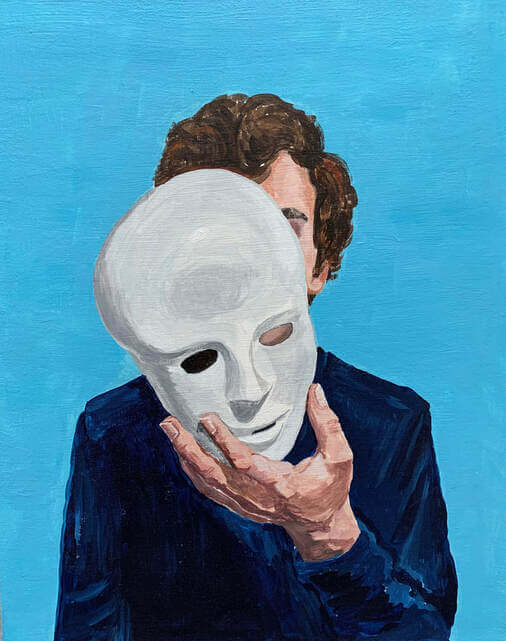
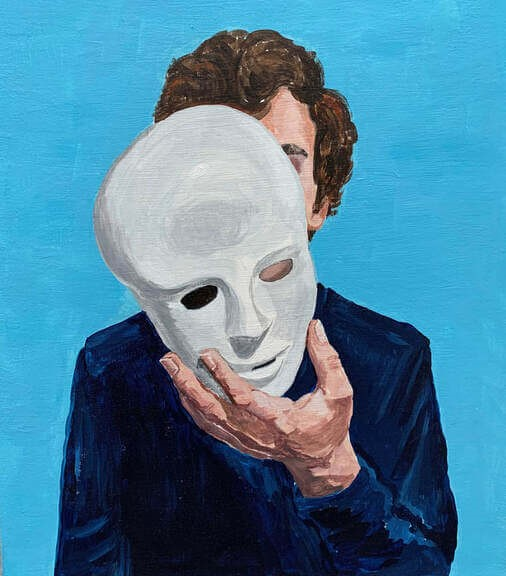
Gallery Page Rework
Extensive reformatting to the gallery page, and to many of the final images.

diff --git a/art.html b/art.html
@@ -47,46 +47,35 @@
           }
           </script>
 <!--Main gallery content for the page.-->
-          <div class="works">
-        <div class="workcontainer">
-          <div class="physwork">
-            <img src="imagesscaled/bluemix.png" alt="Digital multimedia piece of masked figure glitching with 3D heads circling.">
+      <div class="works">
+          <div class= "artgrid">
+            <section class="gallery">
+              <img src="imagesscaled/chand.jpg" alt="">
+              <img src="imagesscaled/bluemix.png" alt="">
+              <img src="imagesscaled/poly.jpg" alt="">
+              <img src="imagesscaled/DQ.jpg" alt="">
+              <img src="imagesscaled/redgreen.jpg" alt="">
+              <img src="imagesscaled/walk.jpg" alt="">
+              <img src="imagesscaled/sit.jpg" alt="">
+              <img src="imagesscaled/look.jpg" alt="">
+              <img src="imagesscaled/vet.jpg" alt="">
+              <img src="imagesscaled/pepper.jpg" alt="">
+              <img src="imagesscaled/blue.jpg" alt="">
+              <img src="imagesscaled/green.jpg" alt="">
+            </section>
+            <aside>
+              <h3>My Artwork</h3>
+              <br>
+              <p>Displayed in this gallery are some of my favorite art pieces that I’ve completed from the past two-ish years. </p>
+              <br>
+              <br>
+              <p>They were all completed in a variety of different mediums, specifically; <b> charcoal, acrylic, watercolor, graphite, digital, & watercolor pencil. </b></p>
+              <br>
+              <br>
+              <p>I love experimenting with new mediums, and seeing what new visual methods I can employ to create compelling artwork that stands out and communicates my ideas and feelings.</p>
+            </aside>
           </div>
-            <div class="physwork">
-              <img src="imagesscaled/chand.jpg" alt="Acrylic painting of gold chandelier next to deer skull and earth globe.">
-            </div>
-            <div class="physwork">
-              <img src="imagesscaled/walk.jpg" alt="Graphite pencil drawing of man in coat walking on abstract path.">
-            </div>
-            <div class="physwork">
-              <img src="imagesscaled/pepper.jpg" alt="Pastel piece of man in suit posing in-front of peppers.">
-            </div>
-            <div class="physwork">
-              <img src="imagesscaled/vet.jpg" alt="Charcoal piece of profile of US veteran.">
-            </div>
-            <div class="physwork">
-              <img src="imagesscaled/green.jpg" alt="Acrylic painting of a shoulder of green coat with red accent.">
-            </div>
-            <div class="physwork">
-              <img src="imagesscaled/poly.jpg" alt="Black and white watercolor painting of polygonal abstract scene.">
-            </div>
-            <div class="physwork">
-              <img src="imagesscaled/look.jpg" alt="Colored pencil piece of masked figure posing in black leather coat.">
-            </div>
-            <div class="physwork">
-              <img src="imagesscaled/sit.jpg" alt="Multimedia piece of Steven sitting in on stool.">
-            </div>
-            <div class="physwork">
-              <img src="imagesscaled/blue.jpg" alt="Acrylic painting of figure in blue holding up white mask in-front of them.">
-            </div>
-          <div class="physwork">
-            <img src="imagesscaled/DQ.jpg" alt="Digital painting of Steven grimacing inside of ice cream cup."> 
-          </div>
-          <div class="physwork">
-            <img src="imagesscaled/redgreen.png" alt="Digital piece of Steven screaming in elevator.">
         </div>
-        </div>
-              </div>
               <!--Links to email and linkedin.-->
               <footer>
                 <div class="bottom">
@@ -97,6 +86,6 @@
                   <img class="stevenlink" alt="IN Logo from Linkedin, a linked image directing to Steven's linkedin profile." src="imagesscaled/linkedin.png" width="20" height="20">
                   </a>
                 </div>
-        </footer>
+              </footer>
     </body>
 </html>

diff --git a/styles.css b/styles.css
@@ -99,13 +99,27 @@ font-size: 100%;
   background-color: black;
 }
 
+h2.hi {
+  color: #000;
+  padding-bottom: 0.5rem;
+}
+
+p.hey {
+  color: #000;
+  padding-left: 0em;
+}
+
 .centered {
-  position: absolute;
-  top: 30%;
+  position: fixed;
+  top: 40%;
   left: 50%;
   transform: translate(-50%, -50%);
-  background-color: black;
-  padding: 0.5rem;
+  background-color: white;
+  border-style: solid;
+  border-width: 10px;
+  border-color: rgba(105, 24, 105, 0.534);
+  padding: 1rem;
+  max-width: 300px;
 }
 
 /* Sections follow content layout for projects. */
@@ -115,17 +129,19 @@ font-size: 100%;
 
 /* The flexbox for my artwork. */
 .workcontainer {
-  justify-content: center;
-  flex-direction: row;
-	display: flex;
-	flex-wrap: wrap;
-	justify-content: center;
-  align-items: flex-start;
-  max-width: 1200px;
+	display: grid;
+
 
 }
 
-@media screen and (max-width: 800px) {
+/* The flexbox for my about page. */
+.aboutflex {
+  display: flex;
+  flex-flow: row wrap;
+  justify-content: center;
+}
+
+@media screen and (max-width: 999px) {
   h3 {
     font-family: Lato;
     font-size: 29px;
@@ -143,12 +159,20 @@ bottom: 0;
 }
 
 .centered {
-  position: absolute;
-  top: 30%;
+  position: fixed;
+  top: 40%;
   left: 50%;
   transform: translate(-50%, -50%);
-  background-color: black;
+  background-color: rgb(255, 255, 255);
   padding: 0.5rem;
+}
+
+p.top {
+  font-family: "Quattrocento Sans";
+  font-size: 1.15rem;
+  max-width: 536px;
+  padding-left: 2rem;
+  padding-right: 2rem;
 }
 
 }
@@ -186,43 +210,86 @@ bottom: 0;
   position: sticky;
 }
 
-@media screen and (min-width: 801px) {
+p.about {
+  font-family: "Quattrocento Sans";
+  font-size: 1.15rem;
+  max-width: 600px;
+  padding-left: 2rem;
+  padding-right: 2rem;
+}
+
+@media screen and (min-width: 1000px) {
   h3 {
     font-family: Lato;
     font-size: 39px;
     padding-top: 1.6rem;
     padding-left: 2rem;
-    padding-bottom: 1rem;
+    padding-bottom: 1.5rem;
   }
 
   .about_me {
     border-width: 0em;
     background-color: #dff3ff;
-margin: auto;
-max-width: 780px;
-bottom: 0;
+    margin: auto;
+    max-width: 800px;
+    bottom: 0;
 }
 
 p.about {
   font-family: "Quattrocento Sans";
-  font-size: 1.15rem;
-  max-width: 630px;
+  font-size: 1.25rem;
+  max-width: 680px;
   padding-left: 2rem;
   padding-right: 2rem;
 }
 
+.artgrid {
+  display: grid;
+  grid-template-rows: auto;
+  grid-template-areas: "main main . sidebar";
+  margin: 3rem auto;
+  justify-content: center;
 }
 
-.aboutflex {
+.opener {
+  max-width: 400px;
+}
+
+p.top {
+  font-family: "Quattrocento Sans";
+  font-size: 1.25rem;
+  max-width: 536px;
+  padding-left: 0rem;
+  padding-right: 2rem;
+  margin-left: -1rem;
+}
+
+.gallery {
   display: grid;
-  grid-template-areas:
-  'h3 h3'
-  'p picture'
-  'p.about p.about';
+  grid-template-columns: repeat(3, 1fr);
+  grid-gap: 1.3rem;
+  justify-items: center;
+  align-items: center;
+  max-width: 900px;
+}
+
+aside {
+  grid-area: sidebar;
+  max-width: 300px;
+  margin-left: 1em;
+}
+
+}
+
+@media screen and (min-width: 1324px) {
+  aside {
+    grid-area: sidebar;
+    max-width: 300px;
+    margin-left: 5em;
+  }
 }
 
 /* Placeable adherences for my about me page. */
-
 
 p {
   font-family: "Quattrocento Sans";
@@ -233,11 +300,9 @@ p {
 }
 /* Unique placement for my about me image. */
 .me { 
-  display: block;
   margin-left: auto;
   margin-right: auto;
   border-radius: 8px;
-  grid-area: picture;
 }
 
 /* Guides for my linked footer content. */

diff --git a/about.html b/about.html
@@ -27,17 +27,21 @@
         <!--Main 'about me' content for the page.-->
         <div class="about_me">
           <br>
+          <h3>Who am I?</h3>
               <div class="aboutflex">
-                <h3>Who am I?</h3>
-            
-                <p>My name is Steven McInerney. I am a digital designer currently based in Philadelphia, studying Interactive Digital Media at Drexel University.</p>
-                <br>
-                <br>
-                <br>
-                <picture>
-                  <img class= "me" src= "imagesscaled/myself.jpeg" alt="Picture of Steven smiling, standing in studio lab." width="300" height="300">
-                </picture>
+                <div class="opener">
+                  <p class="top">My name is Steven McInerney. I am a digital designer currently based in Philadelphia, studying Interactive Digital Media at Drexel University.</p>
                   <br>
+                  <br>
+                  <br>
+                </div>
+                <div class="pic">
+                  <picture>
+                    <img class= "me" src= "imagesscaled/myself.png" alt="Picture of Steven smiling, standing in studio lab.">
+                  </picture>
+                </div>
+              </div>
+                  <br> 
                   <h3>Some Background...</h3>
                   <p class="about">I am interested in honing my creative and artistic skill with a blend of my love of technology. I believe that it is incredibly necessary to utilize creative expression in our digital lives, especially as designers.
                   <br>
@@ -53,7 +57,6 @@
                   <br>
                   <br>
                   </p>
-             </div>
         </div>
             <!--Links to email and linkedin.-->
             <footer>

diff --git a/uiux.html b/uiux.html
@@ -28,12 +28,20 @@
           <div class="works"> 
             <div class="physwork">
               <a href="work2.html">
-              <img src="imagesscaled/realtitle.png" alt="IDM-213, Pandora, Rebrand and Re-flow." width=600 height=470>
+            <picture>
+              <source media="(max-width: 1149px)" srcset="imagesscaled/realtitle.png" />
+              <source media="(min-width: 1150px)" srcset="imagesscaled/real_b.png" />
+              <img src="imagesscaled/realtitle.png" alt="IDM-213, Pandora, Rebrand and Re-flow.">
+            </picture>
             </a>
             </div>
             <div class="physwork">
               <a href="work1.html">
-              <img src="imagesscaled/wcsjtitle.png" alt="IDM-212 WCSJNews.com Redesign and Re-flow." width=600 height=470>
+            <picture>
+                <source media="(max-width: 1149px)" srcset="imagesscaled/wcsjtitle.png" />
+              <source media="(min-width: 1150px)" srcset="imagesscaled/wcsjtitle_b.png" />
+              <img src="imagesscaled/wcsjtitle.png" alt="IDM-212 WCSJNews.com Redesign and Re-flow.">
+            </picture>
             </a>
               </div>
             </div>

diff --git a/index.html b/index.html
@@ -26,7 +26,11 @@
             <source media="(min-width: 1021px)" srcset="imagesscaled/bg_l.png" />
             <img src="imagesscaled/bg_s.png" alt="Gallery of Steven's work at an angle.">
           </picture>
-          <div class="centered">Welcome! I'm Steven, and this is my website, feel free to take a look around with the tabs up top.</div>
+          <div class="centered">
+            <h2 class="hi">Welcome!</h2>
+            <p class="hey">I'm Steven, and this is my website. Feel free to take a look around with the tabs up top. </p>
+
+          </div>
         </div>
             <!--Links to email and linkedin.-->
             <footer>
